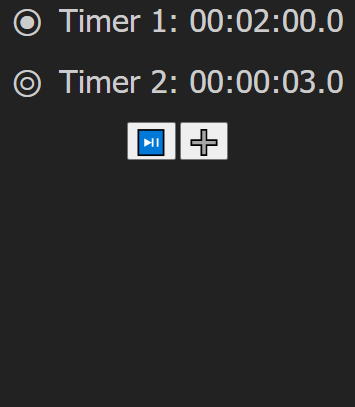
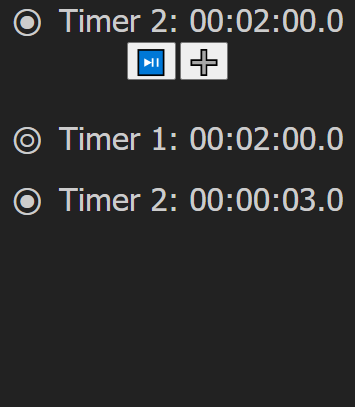
feat: Selected timer is also shown at top

diff --git a/src/renderer/App.tsx b/src/renderer/App.tsx
@@ -71,10 +71,12 @@ const Main = () => {
           timerArray, null, 2
         )}
       </pre> */}
-      <Timers
-        timerArray={timerArray}
-        handleSetSelTimer={(x) => handleSetSelTimer(x)}
-        selTimer={selTimer}
+
+      <Timer
+        title={timerArray[selTimer].title}
+        timerInput={timerArray[selTimer].timerInput}
+        // eslint-disable-next-line react/jsx-boolean-value
+        isSelected={true}
         triggerTimer={triggerTimer}
       />
 
@@ -91,6 +93,13 @@ const Main = () => {
           ➕
         </button>
       </div>
+      <br /><br />
+      <Timers
+        timerArray={timerArray}
+        handleSetSelTimer={(x) => handleSetSelTimer(x)}
+        selTimer={selTimer}
+        triggerTimer={triggerTimer}
+      />
       {
         isShowAddTimer
           ? <>

diff --git a/src/renderer/components/Timer/Timer.tsx b/src/renderer/components/Timer/Timer.tsx
@@ -98,7 +98,10 @@ const Timer: FC<ITimerProps> = (
 
 
   useEffect(() => {
-    getFormattedFullTime();
+    console.log(`timerInput: `, timerInput);
+    if (timerInput) {
+      getFormattedFullTime()
+    };
     // eslint-disable-next-line react-hooks/exhaustive-deps
   }, []);
 
